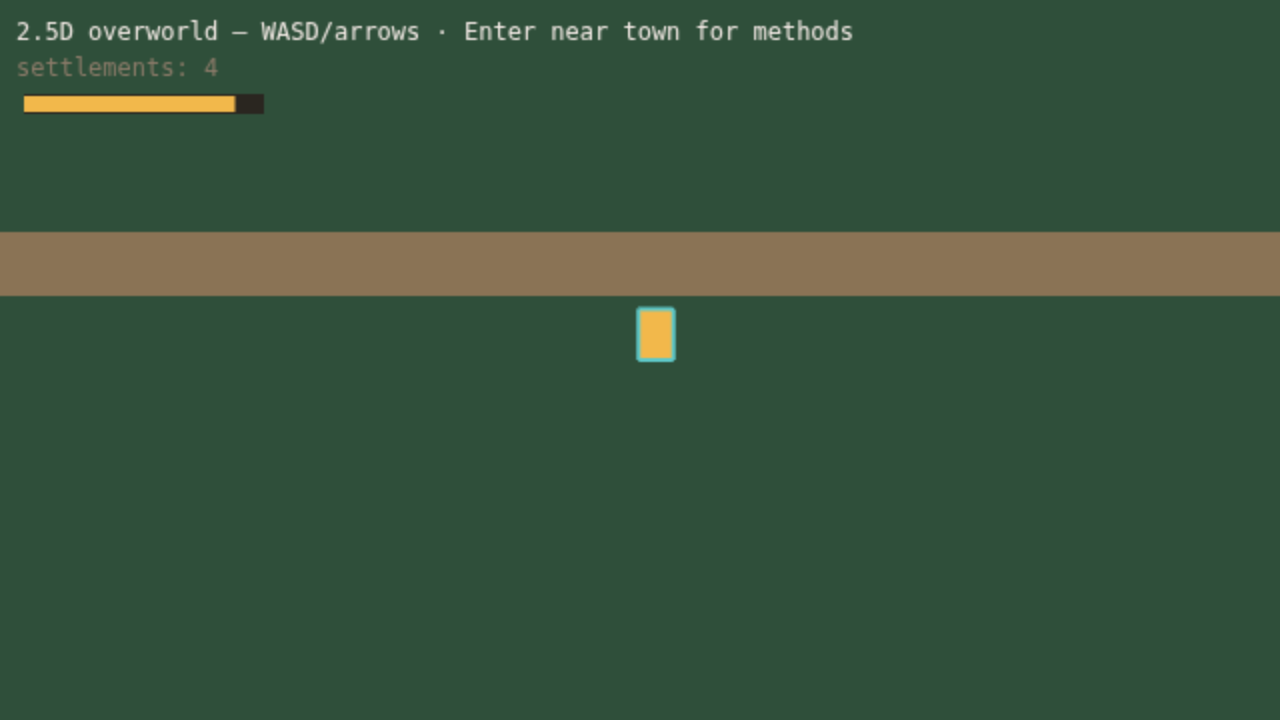
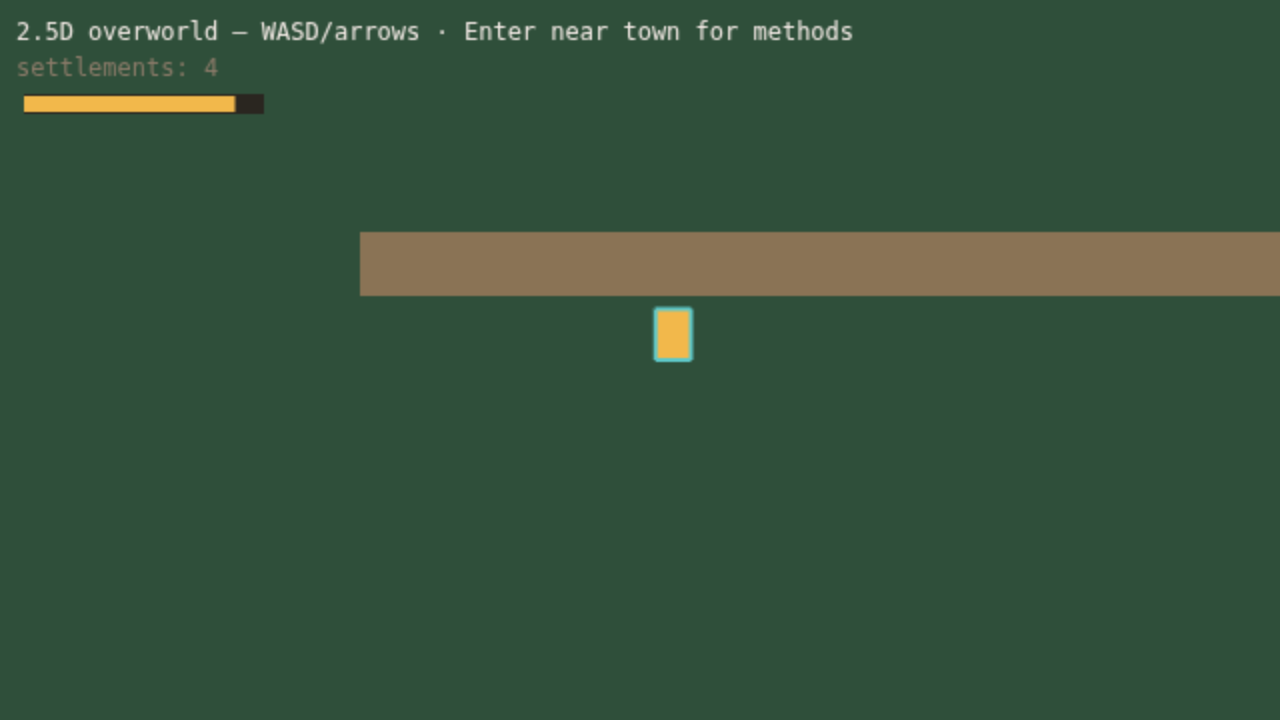
feat(render): overworld walk speed + camera polish
Delta-time walk at FEEL.overworld.walkTilesPerSec (~2 tiles/sec) with
diagonal normalization via walkDelta; camera roundPixels, FEEL lerp,
and modest deadzone. No spark/bot policy changes.

Changed region(s): [[0.0, 0.3056, 0.2812, 0.4278], [0.4688, 0.4278, 0.5625, 0.5194]]

diff --git a/src/render/overworld-scene.ts b/src/render/overworld-scene.ts
@@ -14,6 +14,7 @@ import type { WorldLayout } from '../sim/map/world-layout';
 import { FEEL } from './feel';
 import { createChunkLayer, type ChunkLayer } from './chunk-layer';
 import { applySpriteSort, tileFootWorld } from './depth-sort';
+import { walkDelta } from './walk-delta';
 
 const PLAYER = 0xf2b84b;
 const CHUNK_MARGIN = 1;
@@ -80,7 +81,7 @@ export class OverworldScene extends Phaser.Scene {
     hud?.setStatus?.('continuous overworld');
   }
 
-  update(): void {
+  update(_time: number, delta: number): void {
     let dx = 0;
     let dy = 0;
     if (this.cursors.left?.isDown || this.wasd.A.isDown) dx -= 1;
@@ -88,8 +89,15 @@ export class OverworldScene extends Phaser.Scene {
     if (this.cursors.up?.isDown || this.wasd.W.isDown) dy -= 1;
     if (this.cursors.down?.isDown || this.wasd.S.isDown) dy += 1;
     if (dx !== 0 || dy !== 0) {
-      this.player.x += dx * 3;
-      this.player.y += dy * 3;
+      const step = walkDelta(
+        dx,
+        dy,
+        delta,
+        FEEL.overworld.walkTilesPerSec,
+        TILE_PX,
+      );
+      this.player.x += step.dx;
+      this.player.y += step.dy;
       applySpriteSort(this.player);
     }
     this.syncChunks(false);
@@ -117,8 +125,16 @@ export class OverworldScene extends Phaser.Scene {
       .rectangle(foot.x, foot.y, TILE_PX * 0.55, TILE_PX * 0.8, PLAYER)
       .setStrokeStyle(2, 0x5ec8c8, 1);
     applySpriteSort(this.player);
-    this.cameras.main.startFollow(this.player, true, 0.12, 0.12);
-    this.cameras.main.setZoom(1);
+    const cam = this.cameras.main;
+    cam.setRoundPixels(true);
+    cam.startFollow(
+      this.player,
+      true,
+      FEEL.overworld.camLerp,
+      FEEL.overworld.camLerp,
+    );
+    cam.setDeadzone(FEEL.overworld.camDeadzoneX, FEEL.overworld.camDeadzoneY);
+    cam.setZoom(1);
   }
 
   private syncChunks(force: boolean): void {

diff --git a/tests/render/walk-delta.test.ts b/tests/render/walk-delta.test.ts
@@ -1,0 +1,36 @@
+import { describe, expect, it } from 'vitest';
+import { walkDelta } from '../../src/render/walk-delta';
+
+describe('walkDelta', () => {
+  const tilePx = 32;
+  const tilesPerSec = 2;
+
+  it('moves ~2 tiles/sec on a cardinal axis', () => {
+    // 500ms at 2 tiles/sec = 1 tile = 32px
+    const d = walkDelta(1, 0, 500, tilesPerSec, tilePx);
+    expect(d.dx).toBeCloseTo(32);
+    expect(d.dy).toBeCloseTo(0);
+  });
+
+  it('normalizes diagonal so speed matches cardinal', () => {
+    const card = walkDelta(1, 0, 1000, tilesPerSec, tilePx);
+    const diag = walkDelta(1, 1, 1000, tilesPerSec, tilePx);
+    const cardSpeed = Math.hypot(card.dx, card.dy);
+    const diagSpeed = Math.hypot(diag.dx, diag.dy);
+    expect(diagSpeed).toBeCloseTo(cardSpeed);
+    expect(diag.dx).toBeCloseTo(diag.dy);
+    expect(diag.dx).toBeGreaterThan(0);
+  });
+
+  it('returns zero when no input', () => {
+    expect(walkDelta(0, 0, 16, tilesPerSec, tilePx)).toEqual({ dx: 0, dy: 0 });
+  });
+
+  it('scales with deltaMs', () => {
+    const a = walkDelta(0, -1, 250, tilesPerSec, tilePx);
+    const b = walkDelta(0, -1, 500, tilesPerSec, tilePx);
+    expect(b.dy).toBeCloseTo(a.dy * 2);
+    expect(a.dx).toBe(0);
+    expect(a.dy).toBeLessThan(0);
+  });
+});

diff --git a/src/render/walk-delta.ts b/src/render/walk-delta.ts
@@ -1,0 +1,20 @@
+/** Pure overworld walk step — no Phaser. Presentation only. */
+
+export function walkDelta(
+  dx: number,
+  dy: number,
+  deltaMs: number,
+  tilesPerSec: number,
+  tilePx: number,
+): { dx: number; dy: number } {
+  if (dx === 0 && dy === 0) return { dx: 0, dy: 0 };
+  let nx = dx;
+  let ny = dy;
+  if (dx !== 0 && dy !== 0) {
+    const inv = 1 / Math.hypot(dx, dy);
+    nx = dx * inv;
+    ny = dy * inv;
+  }
+  const speed = tilesPerSec * tilePx * (deltaMs / 1000);
+  return { dx: nx * speed, dy: ny * speed };
+}

diff --git a/tests/render/feel.test.ts b/tests/render/feel.test.ts
@@ -32,4 +32,11 @@ describe('FEEL render config', () => {
     expect(feelShakeIntensity(0.004)).toBeCloseTo(0.004);
     expect(feelHitStopMs(50)).toBe(50);
   });
+
+  it('exposes overworld walk and camera feel', () => {
+    expect(FEEL.overworld.walkTilesPerSec).toBe(2);
+    expect(FEEL.overworld.camLerp).toBeGreaterThan(0);
+    expect(FEEL.overworld.camDeadzoneX).toBeGreaterThan(0);
+    expect(FEEL.overworld.camDeadzoneY).toBeGreaterThan(0);
+  });
 });

diff --git a/src/render/feel.ts b/src/render/feel.ts
@@ -67,6 +67,15 @@ export const FEEL = {
     desatMs: 320,
     snuffMs: 200,
   },
+  /** Continuous overworld walk + follow cam (presentation only) */
+  overworld: {
+    /** Matches TILES_PER_MINUTE / 60 ≈ 2 tiles/sec */
+    walkTilesPerSec: 2,
+    camLerp: 0.18,
+    camDeadzoneX: 24,
+    camDeadzoneY: 16,
+  },
+
   /** HUD spark bar (presentation only) */
   hud: {
     sparkBarWidth: 120,
